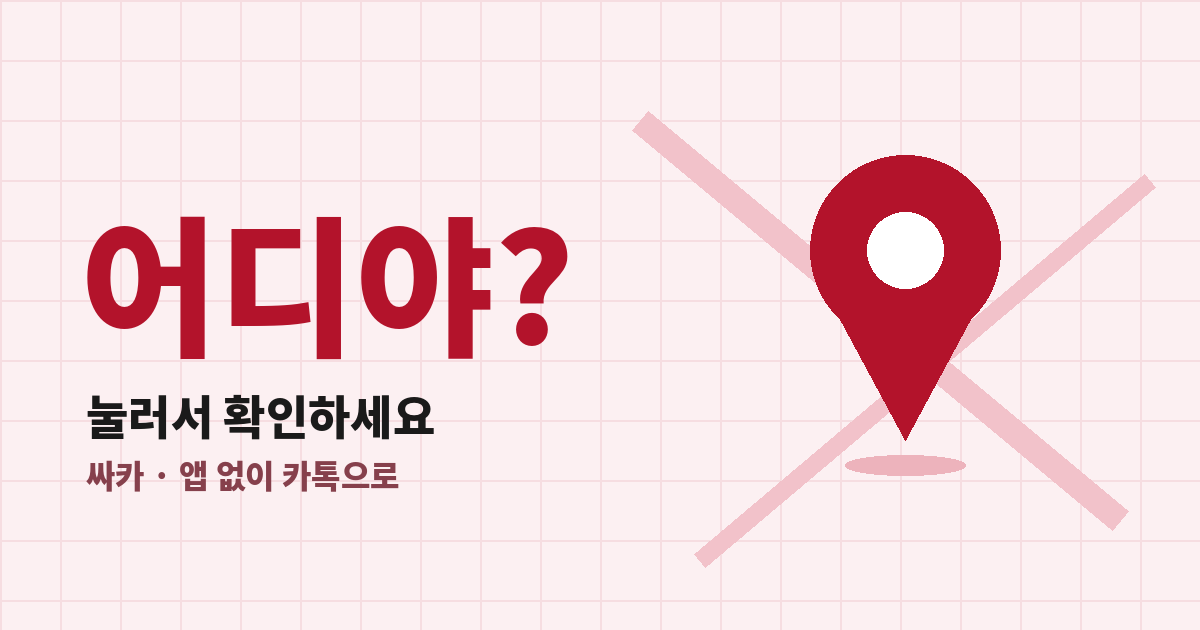
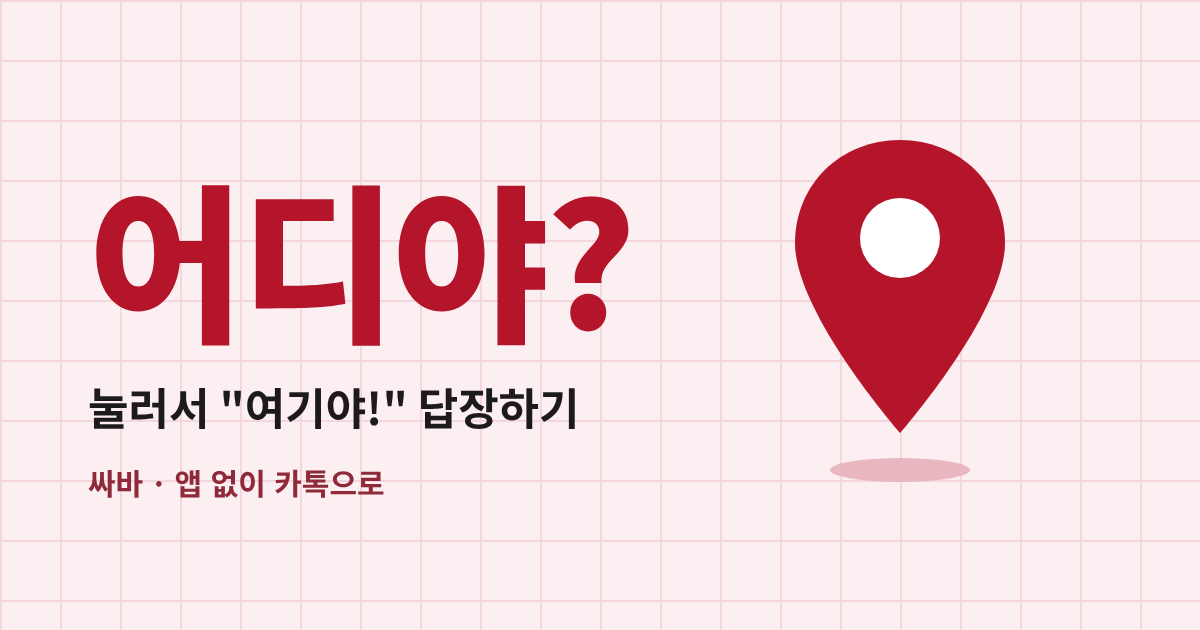
Add files via upload

diff --git a/eodiya/index.html b/eodiya/index.html
@@ -7,7 +7,7 @@
   <title>어디야?</title>
   <meta property="og:title" content="어디야?">
   <meta property="og:description" content="눌러서 확인하세요">
-  <meta property="og:image" content="https://sava.kr/img/eodiya-share.png?v=5">
+  <meta property="og:image" content="https://sava.kr/img/eodiya-share.png?v=6">
   <meta property="og:image:width" content="1200">
   <meta property="og:image:height" content="630">
   <meta property="og:type" content="website">
